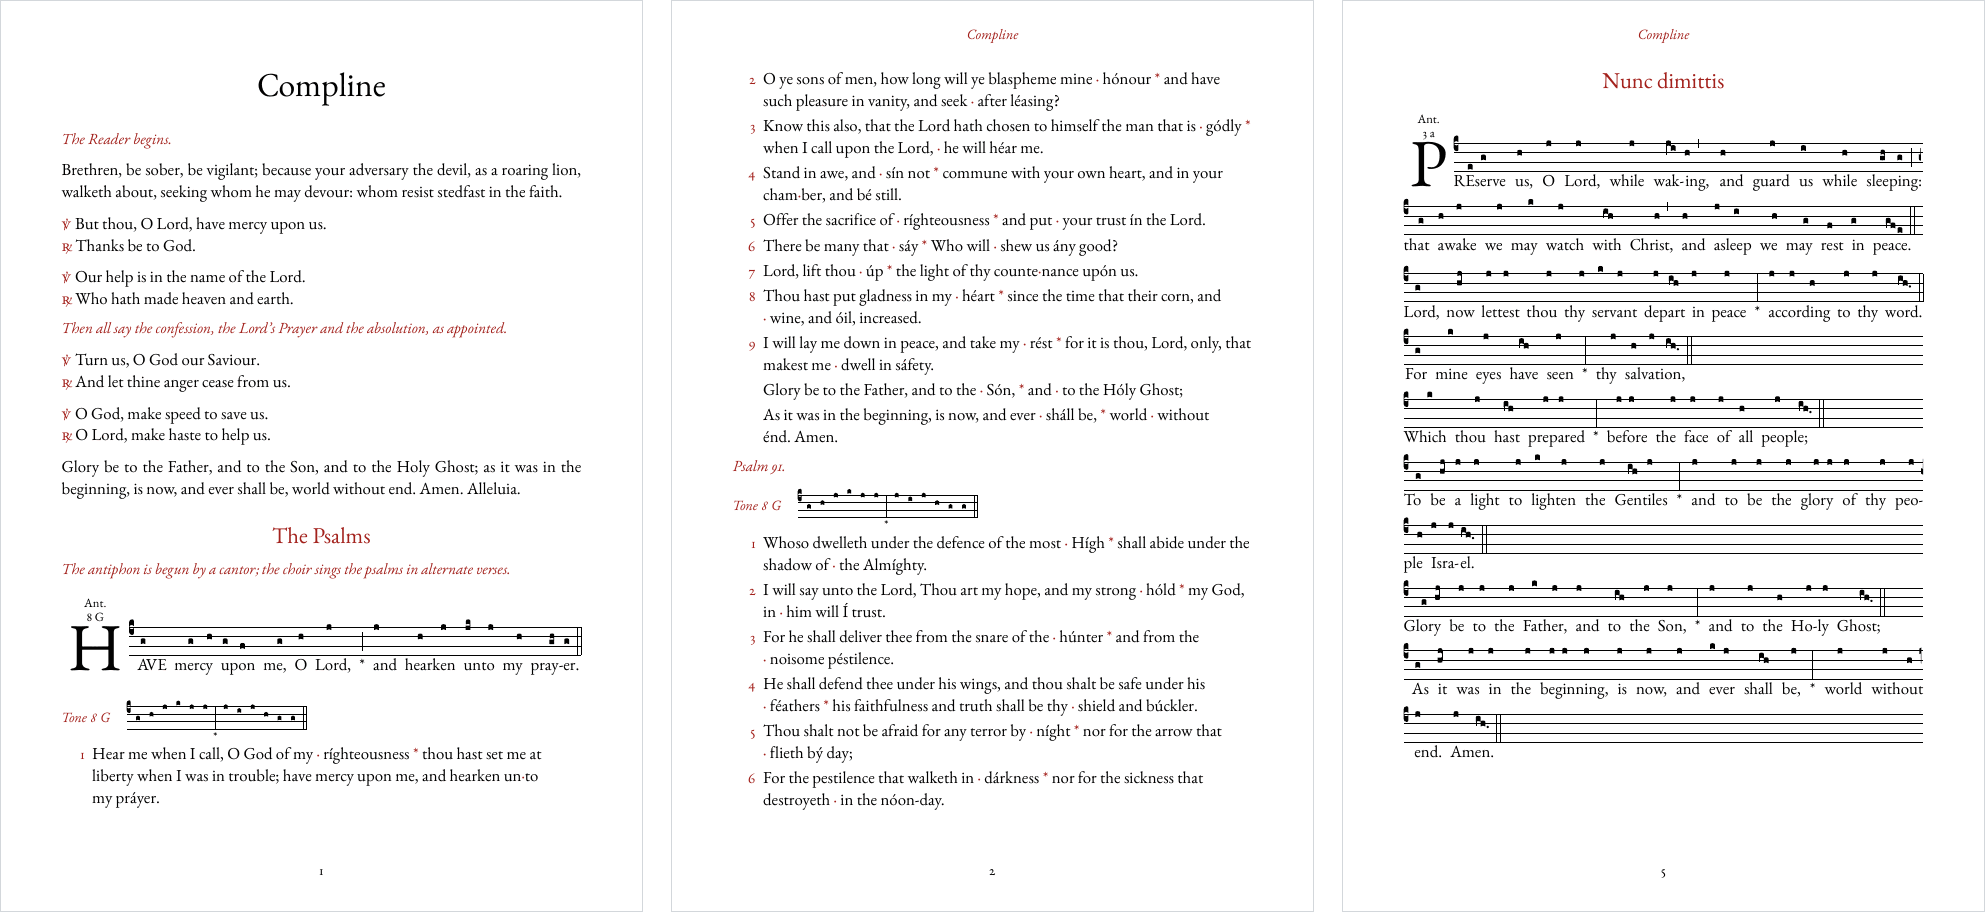
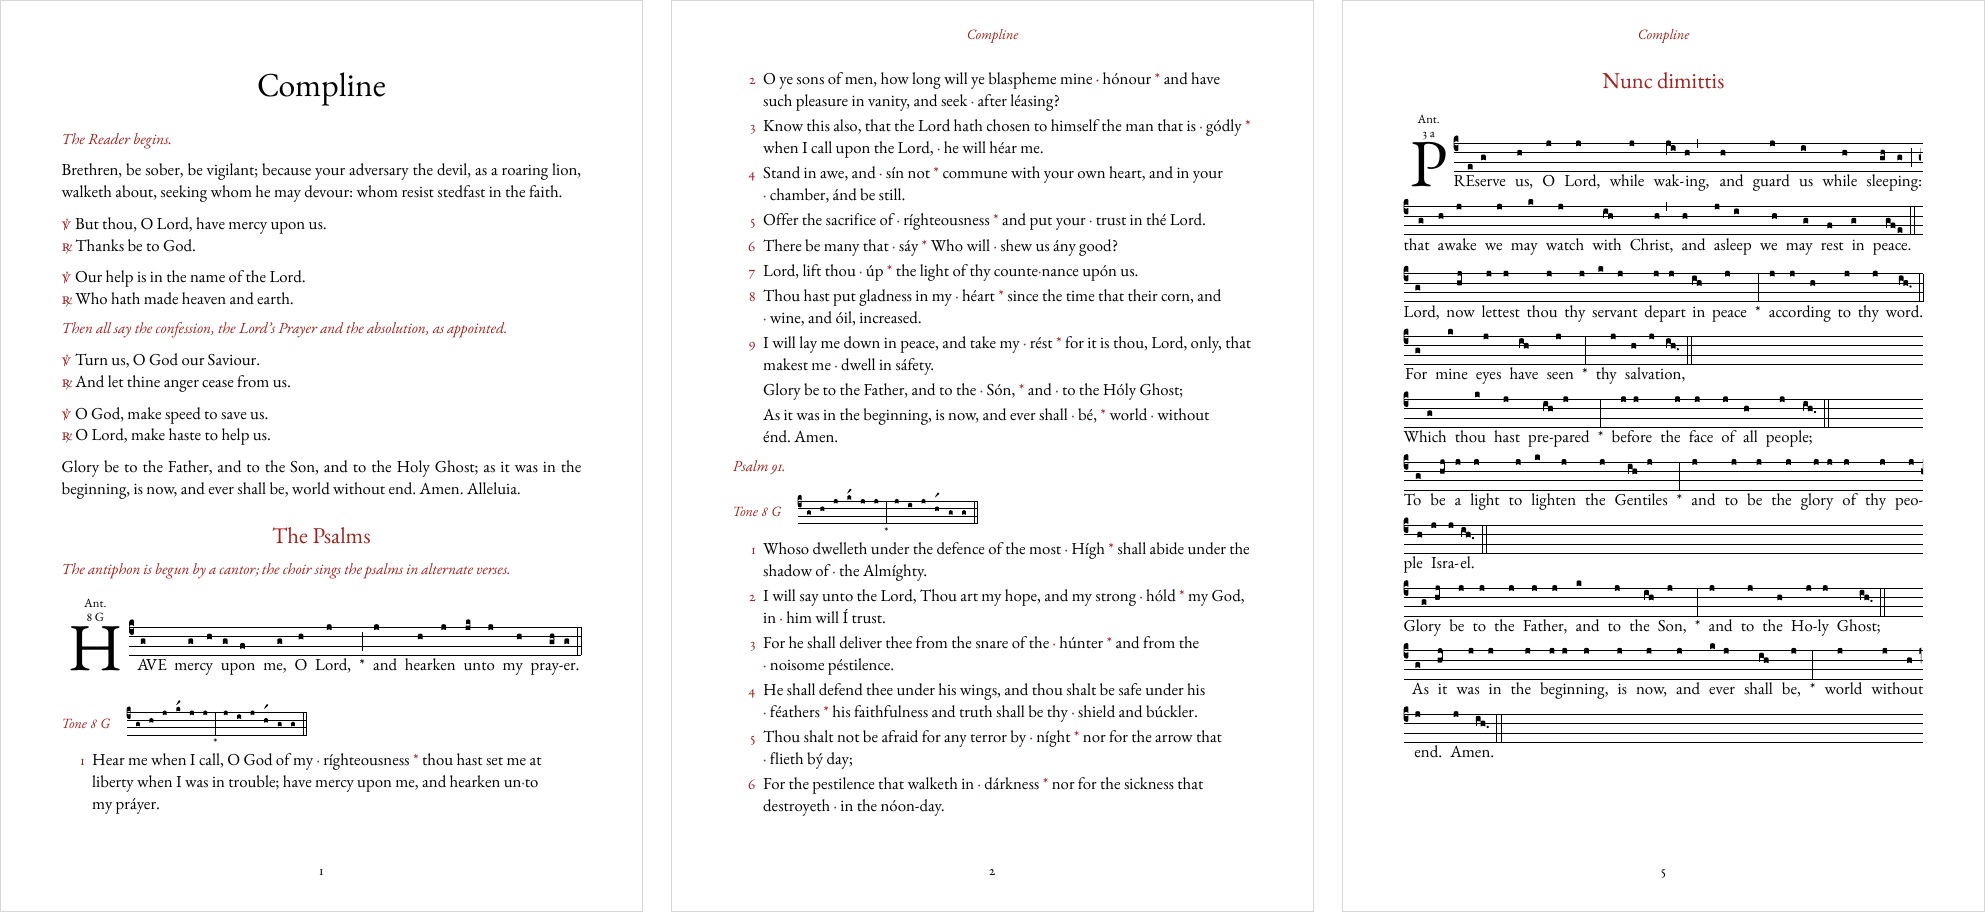
Draw the signs above the staff and mark accents in tone lines
GABC's r1-r8 (acute and grave accents, circle, semicircles and musica
ficta flat, natural and sharp) were read but not drawn. They are now set
as GregorioTeX sets them: centered on the note in the space above the
staff, or clear above a note or mark that reaches that high. Accents and
circles have a new Ink role, Accent; musica ficta draws as an accidental.

Tone::gabc puts an acute accent over the first note of each accent slot,
as pointed psalters print the tone, so the tone line above a psalm shows
where the accents fall.

diff --git a/crates/neuma-tones/src/tone.rs b/crates/neuma-tones/src/tone.rs
@@ -292,11 +292,12 @@ impl Tone {
     /// The tone as one line of notes with no words, as a pointed psalter prints it above the
     /// psalm: the intonation, the tenor and the mediant's cadence, a bar at the mediant `*`,
     /// then the tenor and the termination's cadence. Each slot of a formula is one note (or
-    /// neume), an open slot sung once. `neuma::Chant::new(&tone.gabc())` engraves it.
+    /// neume), an open slot sung once, and an accent slot marked with an acute accent above
+    /// its first note (`r1`). `neuma::Chant::new(&tone.gabc())` engraves it.
     ///
     /// ```
     /// let tone = neuma_tones::Tone::named("8.G")?;
-    /// assert_eq!(tone.gabc(), "(c4) (g) (h) (j) (k) (j) (j) *(:) (j) (i) (j) (h) (g) (g) (::)");
+    /// assert_eq!(tone.gabc(), "(c4) (g) (h) (j) (kr1) (j) (j) *(:) (j) (i) (j) (hr1) (g) (g) (::)");
     /// # Ok::<(), neuma_tones::ToneError>(())
     /// ```
     #[must_use]
@@ -310,8 +311,10 @@ impl Tone {
             }
             g.push_str(&format!("({}) ", c.tenor));
             for s in &c.slots {
-                let (Slot::Fixed(n) | Slot::Open(n) | Slot::Accent(n)) = s;
-                g.push_str(&format!("({n}) "));
+                match s {
+                    Slot::Fixed(n) | Slot::Open(n) => g.push_str(&format!("({n}) ")),
+                    Slot::Accent(n) => g.push_str(&format!("({}) ", accented(n))),
+                }
             }
         };
         half(&self.mediant, true, &mut g);
@@ -346,6 +349,21 @@ impl Tone {
         } else {
             format!("Tone {mode} {ending}")
         }
+    }
+}
+
+/// A slot's notes with an acute accent (`r1`) over the first of them, as a pointed psalter
+/// marks the accent in the tone: after its pitch, past any alteration (`ixi` is `ixir1`).
+fn accented(notes: &str) -> String {
+    let b = notes.as_bytes();
+    let pitch = (0..b.len()).find(|&i| {
+        b[i].to_ascii_lowercase().is_ascii_lowercase()
+            && b[i].to_ascii_lowercase() <= b'm'
+            && !matches!(b.get(i + 1), Some(b'x' | b'y' | b'#'))
+    });
+    match pitch {
+        Some(i) => format!("{}r1{}", &notes[..=i], &notes[i + 1..]),
+        None => notes.to_string(),
     }
 }
 
@@ -474,7 +492,25 @@ mod tests {
                 "{}",
                 t.name
             );
+            // One acute accent above each accent slot, and nothing else carries one.
+            let accents = parsed
+                .score
+                .syllables
+                .iter()
+                .flat_map(|s| &s.notation)
+                .filter(|f| matches!(f, neuma::score::Figure::Note(n) if n.above_sign == Some(1)))
+                .count();
+            assert_eq!(accents, t.mediant.accents() + t.termination.accents(), "{}", t.name);
         }
+    }
+
+    #[test]
+    fn an_accent_marks_the_first_note_past_any_alteration() {
+        assert_eq!(accented("g"), "gr1");
+        assert_eq!(accented("gh"), "gr1h");
+        assert_eq!(accented("ixi"), "ixir1");
+        assert_eq!(accented("gvFED"), "gr1vFED");
+        assert_eq!(accented(""), "");
     }
 
     #[test]

diff --git a/crates/neuma/src/engrave/neume.rs b/crates/neuma/src/engrave/neume.rs
@@ -57,6 +57,11 @@ const ICTUS_IN_SPACE: f32 = -0.2;
 const ICTUS_PAST_INCLINATUM: f32 = 0.3;
 /// How much farther an ictus goes to clear an episema on the same side.
 const ICTUS_PAST_EPISEMA: f32 = 0.4;
+/// The lowest staff position a sign above the staff (`r1`–`r8`) takes: the space above the
+/// top line, GregorioTeX's `\gre@pitch@raresign` on a four-line staff.
+const ABOVE_SIGN: i8 = 4;
+/// The least gap between a sign above the staff and the ink under it, in staff spaces.
+const ABOVE_SIGN_GAP: f32 = 0.4;
 
 #[derive(Clone, Copy, Debug, PartialEq, Eq)]
 pub(crate) enum Kind {
@@ -1356,6 +1361,44 @@ pub(crate) fn add_markings(built: &mut Built, kind: Kind, notes: &[Note], note_b
                     y: -(sp as f32) + off,
                 },
                 role: Ink::Ictus,
+                note: id,
+                through: None,
+            });
+        }
+        // A sign above the staff (`r1`–`r8`), centered on the note: in the space above the
+        // staff, as GregorioTeX sets them, or clear above a note or mark that is that high.
+        if let Some(s) = note.above_sign {
+            let (glyph, role) = match s {
+                1 => (G::AcuteAccent, Ink::Accent),
+                2 => (G::GraveAccent, Ink::Accent),
+                3 => (G::Circle, Ink::Accent),
+                4 => (G::Semicircle, Ink::Accent),
+                5 => (G::ReversedSemicircle, Ink::Accent),
+                6 => (G::Flat, Ink::Accidental),
+                7 => (G::Natural, Ink::Accidental),
+                _ => (G::Sharp, Ink::Accidental),
+            };
+            let (a, _, c, d) = glyph.ink();
+            let x = h.center() - (a + c) / 2.0;
+            let (left, right) = (x + a, x + c);
+            // The highest ink under the sign: noteheads, then marks already placed.
+            let under = heads
+                .iter()
+                .filter(|o| o.x < right && o.right() > left)
+                .map(|o| o.top)
+                .chain(
+                    built
+                        .pieces
+                        .iter()
+                        .map(Piece::ink_box)
+                        .filter(|b| b[0] < right && b[2] > left)
+                        .map(|b| b[1]),
+                )
+                .fold(f32::INFINITY, f32::min);
+            let y = (-f32::from(ABOVE_SIGN)).min(under - ABOVE_SIGN_GAP - d);
+            built.pieces.push(Piece {
+                mark: Mark::Glyph { glyph, x, y },
+                role,
                 note: id,
                 through: None,
             });

diff --git a/crates/neuma/src/engrave/mod.rs b/crates/neuma/src/engrave/mod.rs
@@ -44,6 +44,8 @@ pub enum Ink {
     Mora,
     /// An ictus mark.
     Ictus,
+    /// An accent, circle or semicircle above the staff (`r1`–`r5`).
+    Accent,
     /// A flat, natural or sharp.
     Accidental,
     /// A clef, and a `cb` clef's flat.
@@ -65,6 +67,7 @@ impl Ink {
             Ink::Episema => "episema",
             Ink::Mora => "mora",
             Ink::Ictus => "ictus",
+            Ink::Accent => "accent",
             Ink::Accidental => "accidental",
             Ink::Clef => "clef",
             Ink::Custos => "custos",
@@ -1663,6 +1666,42 @@ mod tests {
         let lone = clearance("(c4) a(g'1_)");
         for src in ["(c4) a(h_g'1_)", "(c4) a(f_h_g'1_)"] {
             assert!((clearance(src) - lone).abs() < 1e-4, "{src}: {} vs {lone}", clearance(src));
+        }
+    }
+
+    #[test]
+    fn signs_above_the_staff_sit_over_it_or_clear_of_a_high_note() {
+        // GregorioTeX sets `r1`–`r8` in the space above the staff (k in c4), whatever the
+        // note's pitch below it; a note that high pushes its sign up clear of it.
+        let low: Vec<_> = ["(c4) a(dr1)", "(c4) a(gr2)", "(c4) a(jr3)"]
+            .iter()
+            .map(|src| {
+                let t = ink(src, Ink::Accent);
+                assert_eq!(t.len(), 1, "{src}");
+                t[0].1
+            })
+            .collect();
+        assert!(low.windows(2).all(|w| (w[0] - w[1]).abs() < 0.3), "{low:?}");
+        assert!(low[0] < -3.0, "above the top line: {low:?}");
+        for src in ["(c4) a(kr1)", "(c4) a(lr4)", "(c4) a(gkr1)"] {
+            let sign = ink(src, Ink::Accent);
+            let note = ink(src, Ink::Note);
+            let top = note.iter().map(|n| n.1).fold(f32::INFINITY, f32::min);
+            assert_eq!(sign.len(), 1, "{src}");
+            let eng = crate::parse(src).score.engrave(&crate::ApproxMeasure, &StyleOptions::default());
+            let bottom = eng.segments[0]
+                .body
+                .pieces
+                .iter()
+                .find(|p| p.role == Ink::Accent)
+                .map(|p| p.ink_box()[3])
+                .unwrap();
+            assert!(bottom < top, "{src}: sign {bottom} into the note at {top}");
+        }
+        // Musica ficta draws an accidental above the note.
+        for src in ["(c4) a(gr6)", "(c4) a(gr7)", "(c4) a(gr8)"] {
+            assert_eq!(ink(src, Ink::Accidental).len(), 1, "{src}");
+            assert!(ink(src, Ink::Accent).is_empty(), "{src}");
         }
     }
 

diff --git a/crates/neuma/src/score.rs b/crates/neuma/src/score.rs
@@ -410,8 +410,9 @@ pub struct Note {
     pub episema: Option<Episema>,
     /// A vertical episema, the ictus (`'`), and where it goes.
     pub ictus: Option<Placement>,
-    /// Signs above the staff (`r1`–`r8`): read, and reported with `gabc::above-sign`, but not
-    /// drawn.
+    /// A sign above the staff: `r1` an acute accent, `r2` a grave accent, `r3` a circle, `r4`
+    /// a semicircle, `r5` a reversed semicircle, and `r6`–`r8` a musica ficta flat, natural or
+    /// sharp. Drawn only; a musica ficta sign doesn't change the note's pitch.
     pub above_sign: Option<u8>,
     /// Where it is in the source.
     pub span: Range<usize>,

diff --git a/crates/neuma-mobile/src/lib.rs b/crates/neuma-mobile/src/lib.rs
@@ -286,6 +286,8 @@ pub enum Ink {
     Accidental,
     Clef,
     Custos,
+    /// An accent, circle or semicircle above the staff.
+    Accent,
 }
 
 #[derive(Clone, Copy, Debug, PartialEq, Eq, uniffi::Enum)]
@@ -1459,6 +1461,7 @@ fn ink(i: neuma::Ink) -> Ink {
         neuma::Ink::Episema => Ink::Episema,
         neuma::Ink::Mora => Ink::Mora,
         neuma::Ink::Ictus => Ink::Ictus,
+        neuma::Ink::Accent => Ink::Accent,
         neuma::Ink::Accidental => Ink::Accidental,
         neuma::Ink::Clef => Ink::Clef,
         neuma::Ink::Custos => Ink::Custos,

diff --git a/crates/neuma/src/gabc/notes.rs b/crates/neuma/src/gabc/notes.rs
@@ -484,8 +484,6 @@ impl Parser<'_, '_> {
                         Some(d @ b'1'..=b'8') => {
                             self.i += 1;
                             note.above_sign = Some(d - b'0');
-                            self.sink
-                                .info(self.span(start), "gabc::above-sign", "signs above the staff aren't drawn yet");
                         }
                         Some(b'0') => {
                             self.i += 1;

diff --git a/docs/DESIGN.md b/docs/DESIGN.md
@@ -227,8 +227,9 @@ treatments:
 Everything else in the format is drawn: headers (with neuma's recovery for a missing `;`),
 styled lyrics and special characters, centering overrides, `<eu>` and `<nlba>`, every note
 shape, liquescents, initio debilis, cavum, quadratum, alterations (soft and parenthesized),
-morae, episemata, ictus marks, custodes, every space and bar (Dominican bars included), clef
-changes and written line breaks with their custos suffixes.
+morae, episemata, ictus marks, signs above the staff (accents, circles and musica ficta),
+custodes, every space and bar (Dominican bars included), clef changes and written line
+breaks with their custos suffixes.
 
 **Line breaking.** Breaks fall between syllables and at spaces inside the notes. As in
 GregorioTeX (`\gresetunbreakablesyllablenotes{10}{4}{4}`), a syllable of ten or more notes
@@ -303,7 +304,7 @@ A `DisplayList` holds the layout's size, each line's box (top, bottom, staff cen
 baseline), the items to draw and the lyrics as plain text for an accessibility label. An
 item is a glyph (id, position, scale), a rectangle, or text (position, baseline, size and
 styled runs). Every item has a role (`Ink` for notation: staff, ledger, note, stem, bar,
-episema, mora, ictus, accidental, clef, custos; `TextRole` for text: lyric, hyphen, initial,
+episema, mora, ictus, accent, accidental, clef, custos; `TextRole` for text: lyric, hyphen, initial,
 annotation, rubric), and notation names the note or notes it draws.
 
 The SVG writer maps roles to CSS classes (`neuma-note`, `neuma-staff`, `neuma-rubric`, …)

diff --git a/CHANGELOG.md b/CHANGELOG.md
@@ -15,7 +15,8 @@ in the browser and on iOS and Android.
 - `neuma`, the engine, with no dependencies:
   - a GABC reader that never fails: problems come back as diagnostics with stable codes,
     source spans and, where one edit makes sense, a fix;
-  - engraving in Gregorio's style: every neume shape GABC writes, with exsurge's glyphs;
+  - engraving in Gregorio's style: every neume shape GABC writes, with exsurge's glyphs,
+    and the signs above the staff (`r1`–`r8`: accents, circles and musica ficta);
     lyrics centered on their vowels; GregorioTeX's spacing, bars included; drop-cap
     initials and their annotations;
   - optimal-fit line breaking at any width, cheap enough to redo on every resize. A bar ends
@@ -32,7 +33,8 @@ in the browser and on iOS and Android.
     engraving; a Kyriale piece's kind is its movement, the dismissal included;
   - metrics tables for EB Garamond (Google Fonts and the EB Garamond 12 release).
 - `neuma-tones`: pointed psalm text, the Solesmes psalm tones and their endings, settings of
-  text to a tone, automatic pointing of English, and a pointed psalter's display.
+  text to a tone, automatic pointing of English, and a pointed psalter's display, its tone
+  line marking each accent with an acute above the note.
 - `neuma-book`: booklets from a `.book` file, as PDF (with the text font subset) or SVG pages.
 - `neuma-metrics`: builds a metrics table for any font, checks a corpus for collisions, and
   counts lines that start with a bar.

diff --git a/docs/diagnostics.md b/docs/diagnostics.md
@@ -54,7 +54,6 @@ engine renders what it can and says what it did.
 | `gabc::zero-width` | info | the `{…}` | | Notes in `{…}` take their own width. Reported once per score. |
 | `gabc::lined-note` | warning | the note | | Notes surrounded by lines are drawn without the lines. |
 | `gabc::linea` | warning | the note | | The linea is drawn as a punctum. |
-| `gabc::above-sign` | info | the sign | | Signs above the staff (`r1`–`r8`) aren't drawn yet. |
 | `gabc::tuning-ignored` | info | the tag | | A placement fine-tuning tag; the default placement is used. |
 | `gabc::unsupported-tag` | warning | the tag | | A `[name:…]` tag that isn't supported is skipped. |
 
